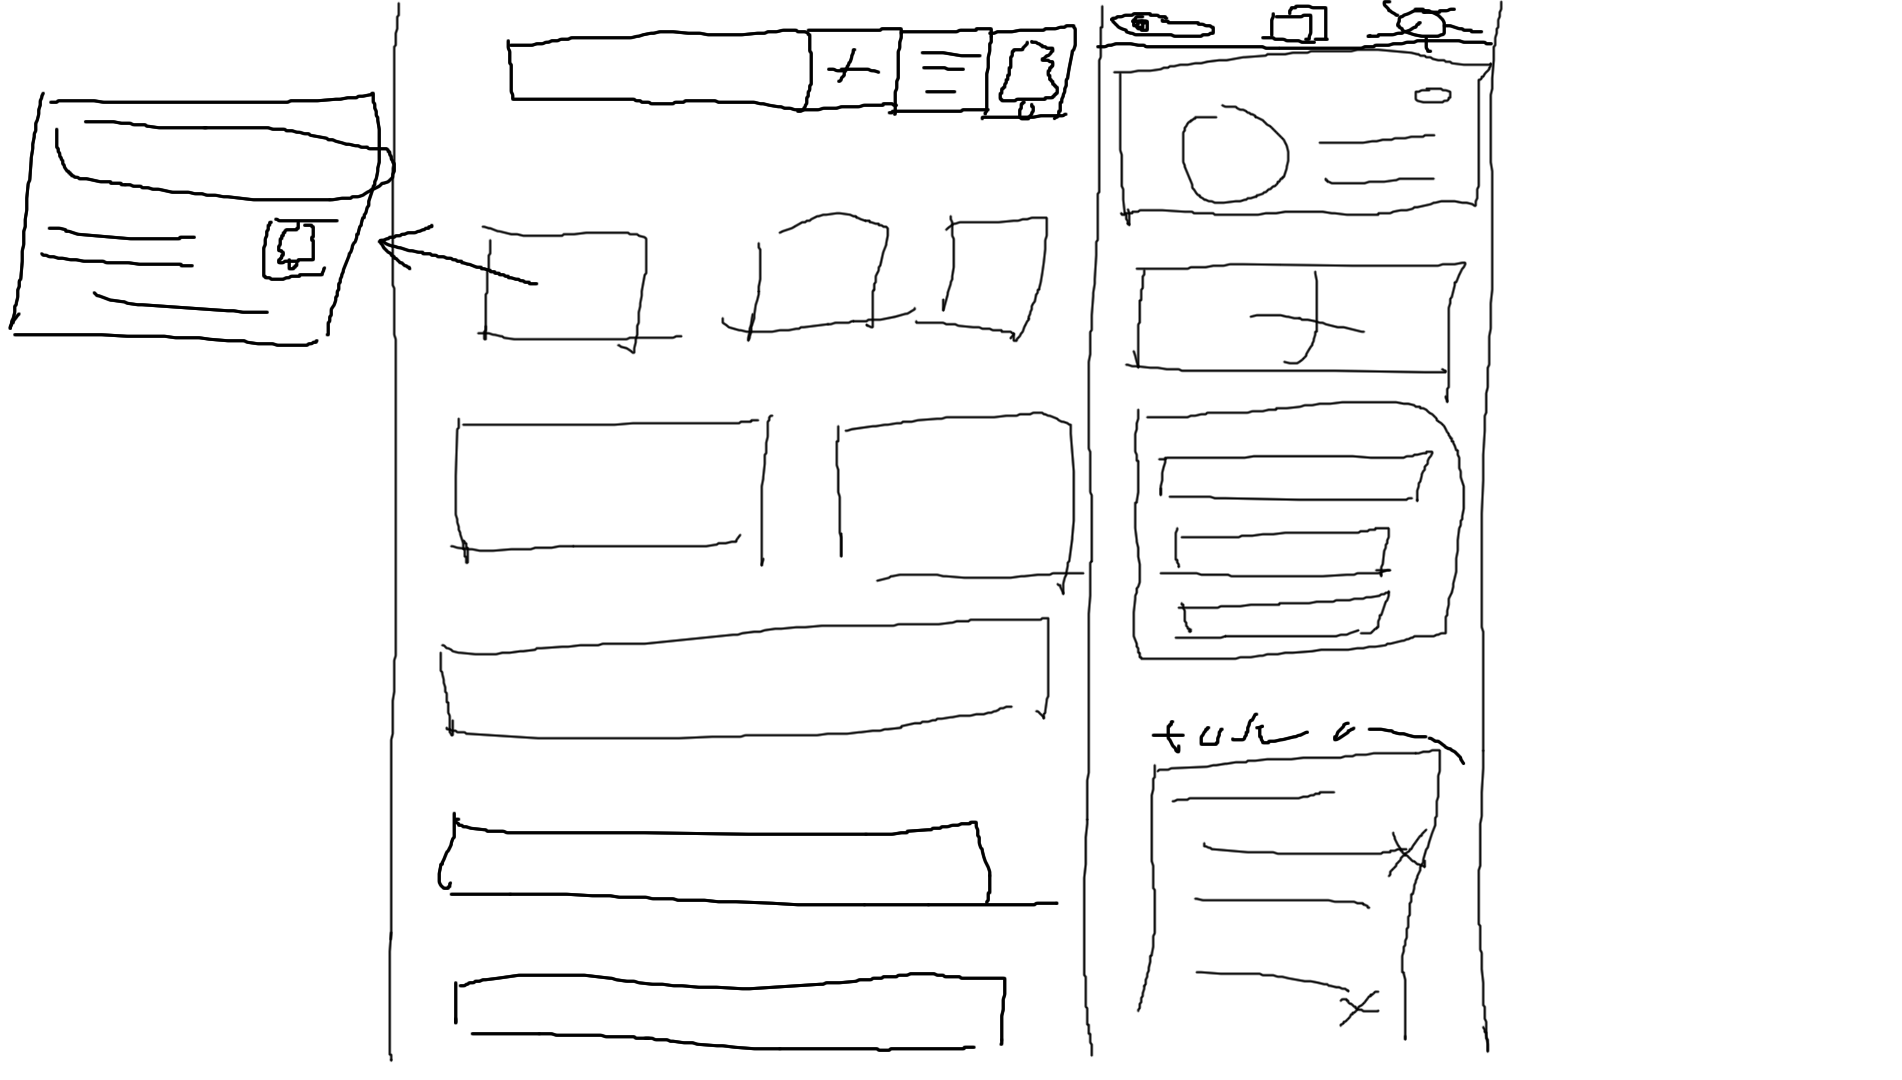
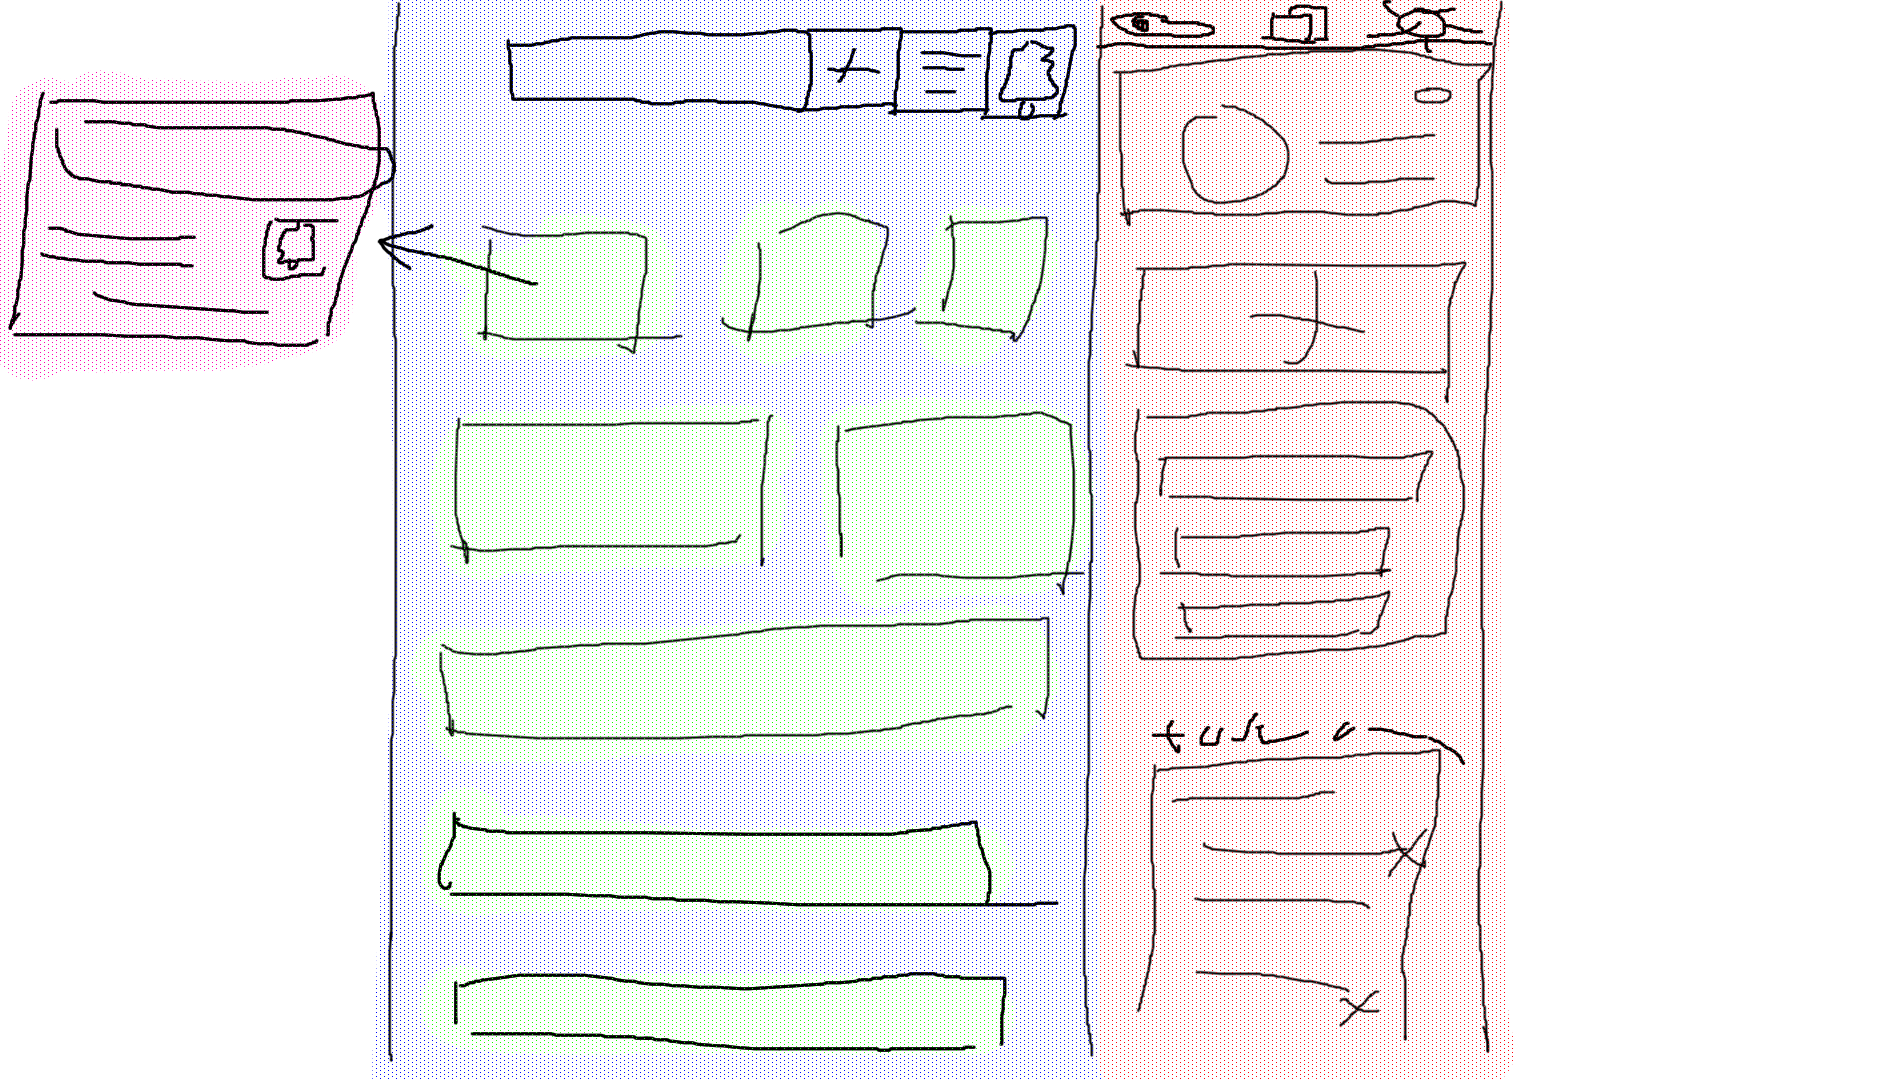
basic grid

diff --git a/tailwind.config.js b/tailwind.config.js
@@ -1,8 +1,28 @@
+/* eslint-disable */
 module.exports = {
   purge: ['./index.html', './src/**/*.{vue,js,ts,jsx,tsx}'],
   darkMode: false, // or 'media' or 'class'
   theme: {
-    extend: {},
+    extend: {
+      gridTemplateColumns: {
+        '15': 'repeat(15, minmax(0, 1fr))',
+      },
+      gridColumnStart: {
+        '13': '13',
+        '14': '14',
+        '15': '15',
+       },
+       gridColumnEnd: {
+        '13': '13',
+        '14': '14',
+        '15': '15',
+       },
+       gridColumn: {
+        'span-13': 'span 13 / span 13',
+        'span-14': 'span 14 / span 14',
+        'span-15': 'span 15 / span 15',
+       }
+    },
   },
   variants: {
     extend: {},

diff --git a/src/views/Home.vue b/src/views/Home.vue
@@ -1,14 +1,21 @@
 <template>
-  <div class="home">
-    <h1>SWINE STATUS HOME PAGE</h1>
+  <div class="w-full h-full">
+    <div class="grid grid-cols-15 h-full">
+      <Feed class="col-span-15 md:col-span-10 lg:col-start-4 lg:col-span-6"/>
+      <Profile class="hidden md:block md:col-span-5 lg:block lg:col-span-3"/>
+    </div>
   </div>
 </template>
 
 <script>
+import Feed from '../components/Feed.vue';
+import Profile from '../components/Profile.vue';
 
 export default {
   name: 'Home',
   components: {
+    Feed,
+    Profile,
   },
 };
 </script>

diff --git a/src/router/index.js b/src/router/index.js
@@ -31,7 +31,7 @@ const routes = [
     name: 'Home',
     component: Home,
     meta: {
-      requiresAuth: true,
+      requiresAuth: false,
     },
   },
 ];
@@ -46,7 +46,6 @@ router.beforeEach((to, from, next) => {
   const { currentUser } = firebase.auth();
   const requiresAuth = to.matched.some((record) => record.meta.requiresAuth);
 
-  console.log(`${currentUser} ${requiresAuth} ${to.path}`);
   if (requiresAuth && !currentUser) next('login');
   else if (!requiresAuth && currentUser) next('home');
   else next();

diff --git a/public/index.html b/public/index.html
@@ -6,6 +6,12 @@
     <meta name="viewport" content="width=device-width,initial-scale=1.0">
     <link rel="icon" href="<%= BASE_URL %>favicon.ico">
     <title><%= htmlWebpackPlugin.options.title %></title>
+    <style>
+      html,body,#app {
+        width: 100%;
+        height: 100%;
+      }
+    </style>
   </head>
   <body>
     <noscript>

diff --git a/src/App.vue b/src/App.vue
@@ -1,8 +1,5 @@
 <template>
   <div id="app">
-    <div id="nav">
-      <router-link to="/home">Home</router-link>
-    </div>
     <router-view/>
   </div>
 </template>

diff --git a/src/components/Feed.vue b/src/components/Feed.vue
@@ -1,0 +1,15 @@
+<template>
+  <div class="bg-indigo-500 h-full w-full">
+
+  </div>
+</template>
+
+<script>
+export default {
+
+};
+</script>
+
+<style>
+
+</style>

diff --git a/src/components/Profile.vue b/src/components/Profile.vue
@@ -1,0 +1,13 @@
+<template>
+  <div class="bg-red-500 h-full w-full"></div>
+</template>
+
+<script>
+export default {
+
+};
+</script>
+
+<style>
+
+</style>
